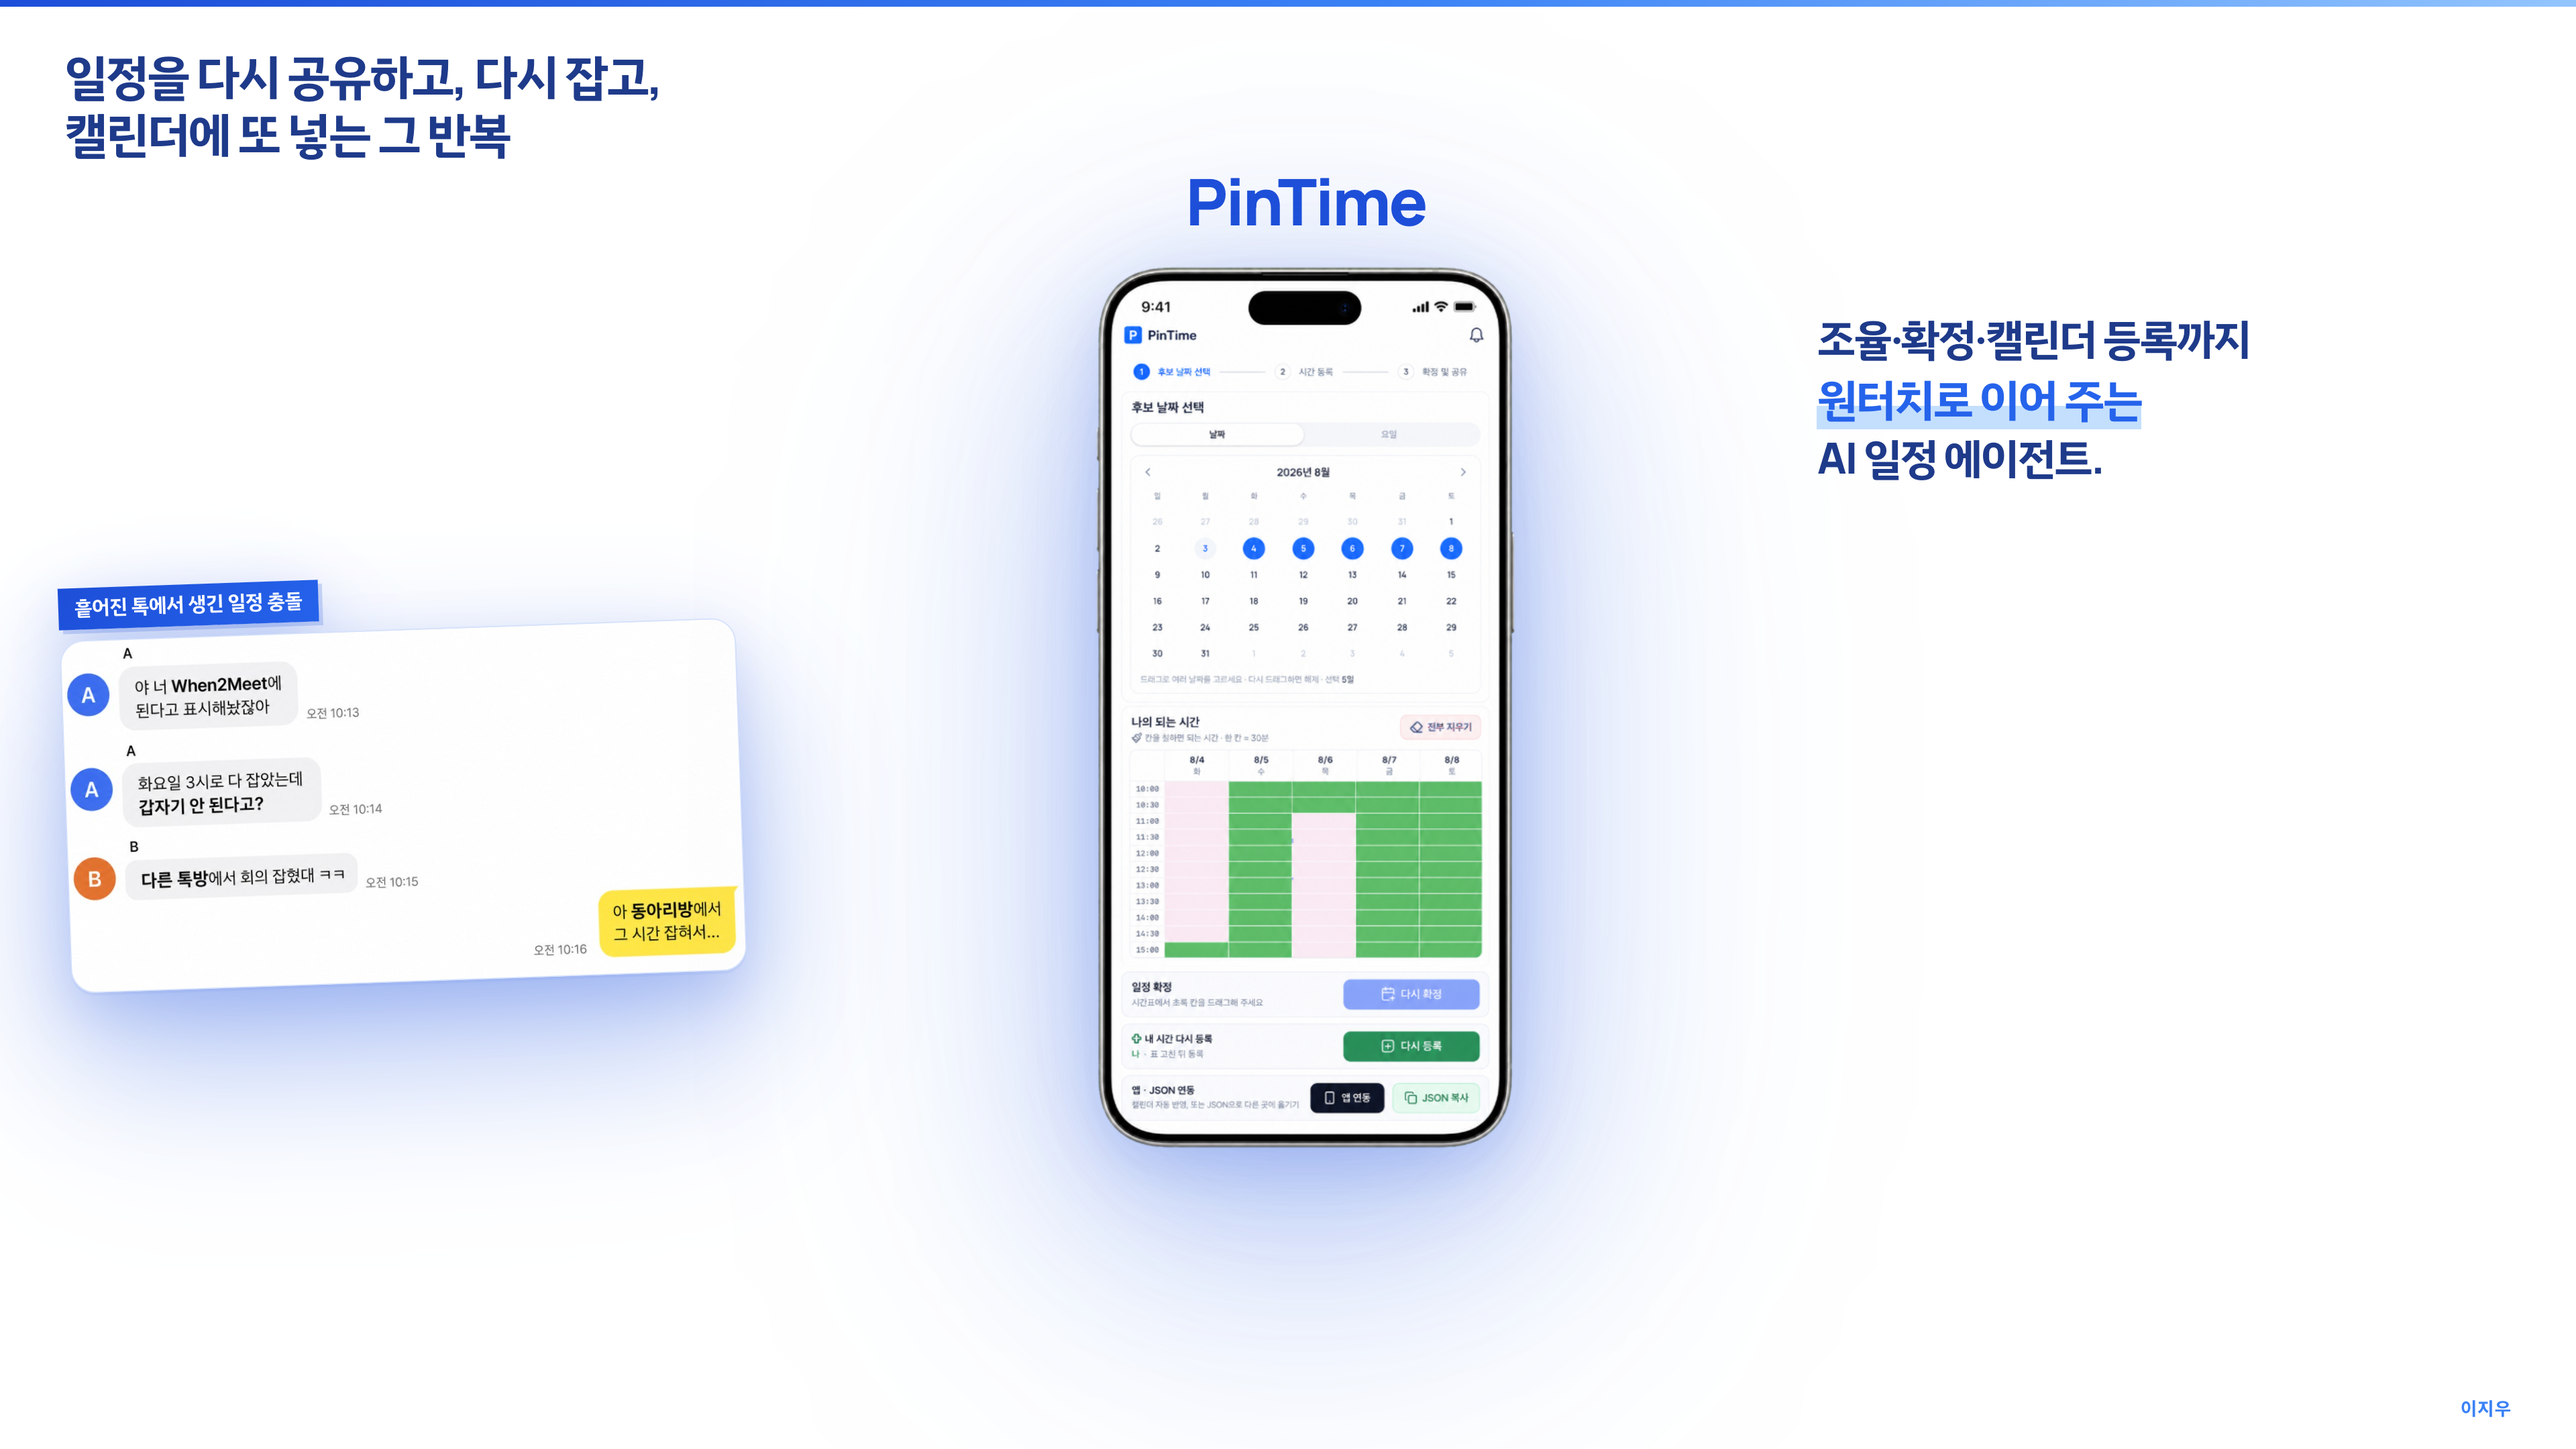
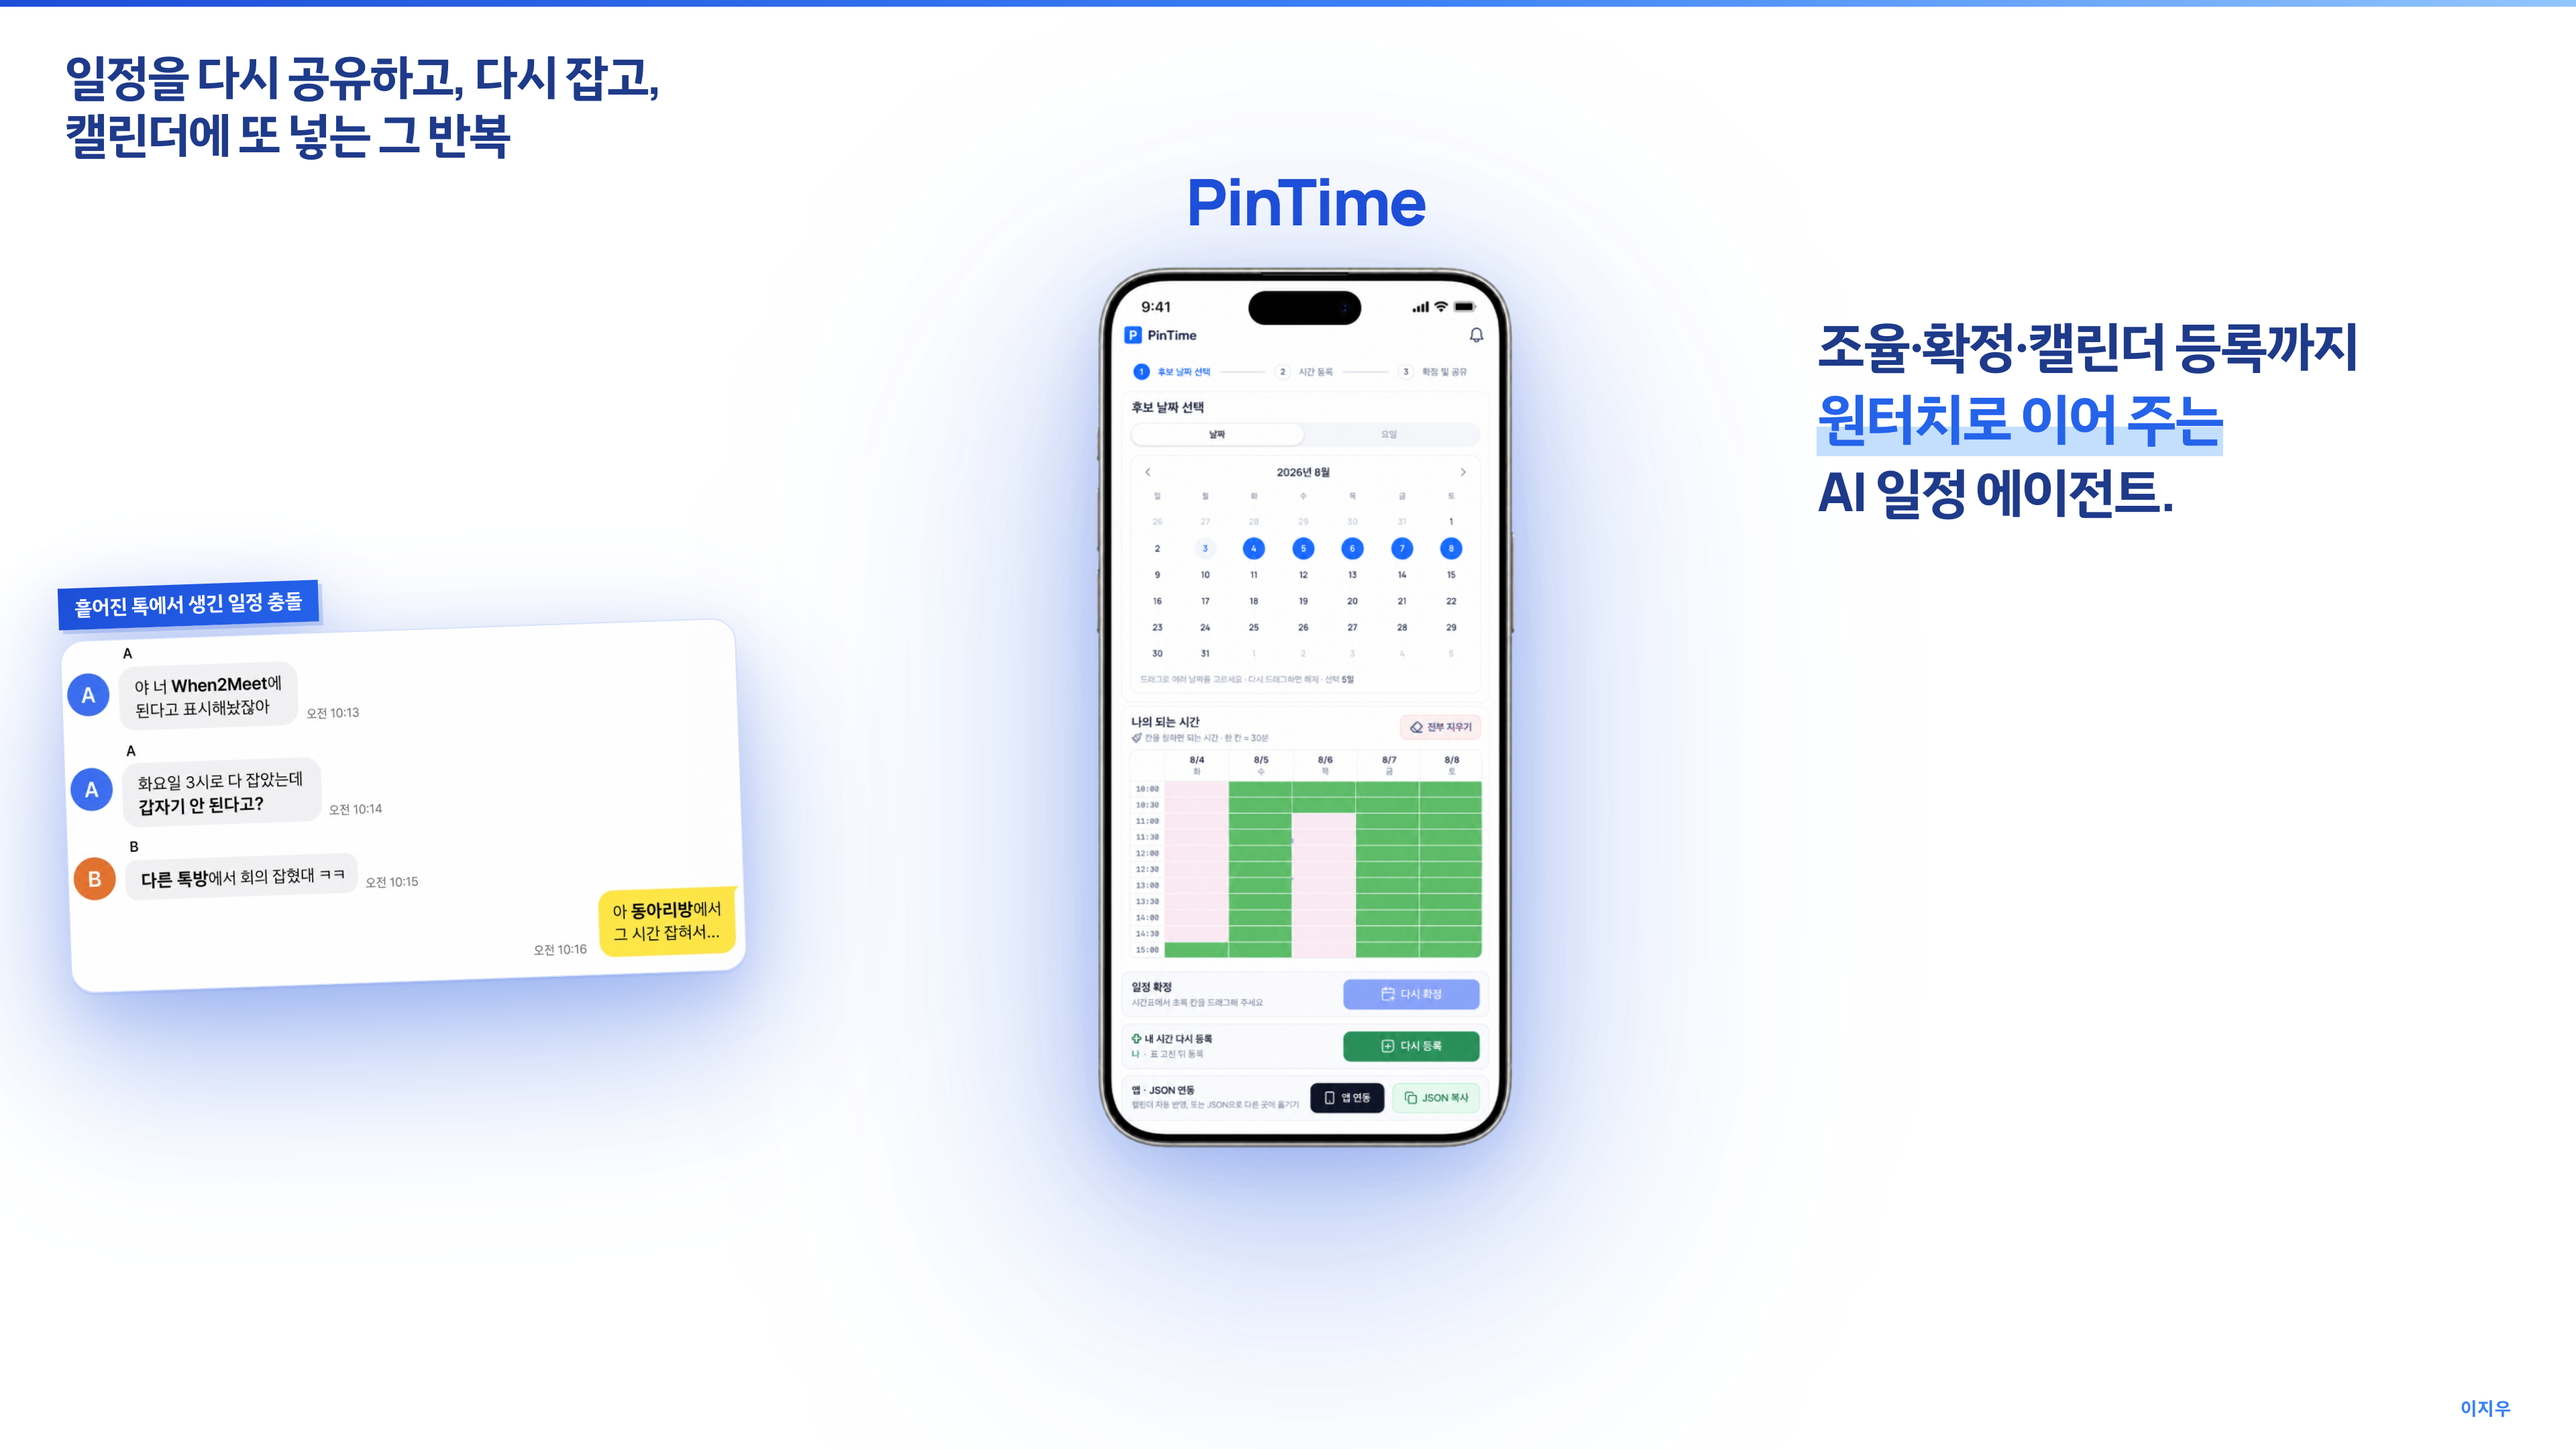
Enlarge cover tagline while keeping three unbroken lines.

Changed region(s): [[0.6875, 0.2171, 0.9375, 0.3722]]

diff --git a/public/pitch.html b/public/pitch.html
@@ -1308,12 +1308,12 @@
 
       .cover-tagline {
         margin: 0;
-        max-width: 4.6in;
+        max-width: 5.2in;
         font-family: Manrope, 'IBM Plex Sans KR', sans-serif;
-        font-size: 32px;
+        font-size: 40px;
         font-weight: 800;
         letter-spacing: -0.035em;
-        line-height: 1.35;
+        line-height: 1.32;
         color: #1e3a8a;
         transform: translate(-40px, 105px);
         word-break: keep-all;
